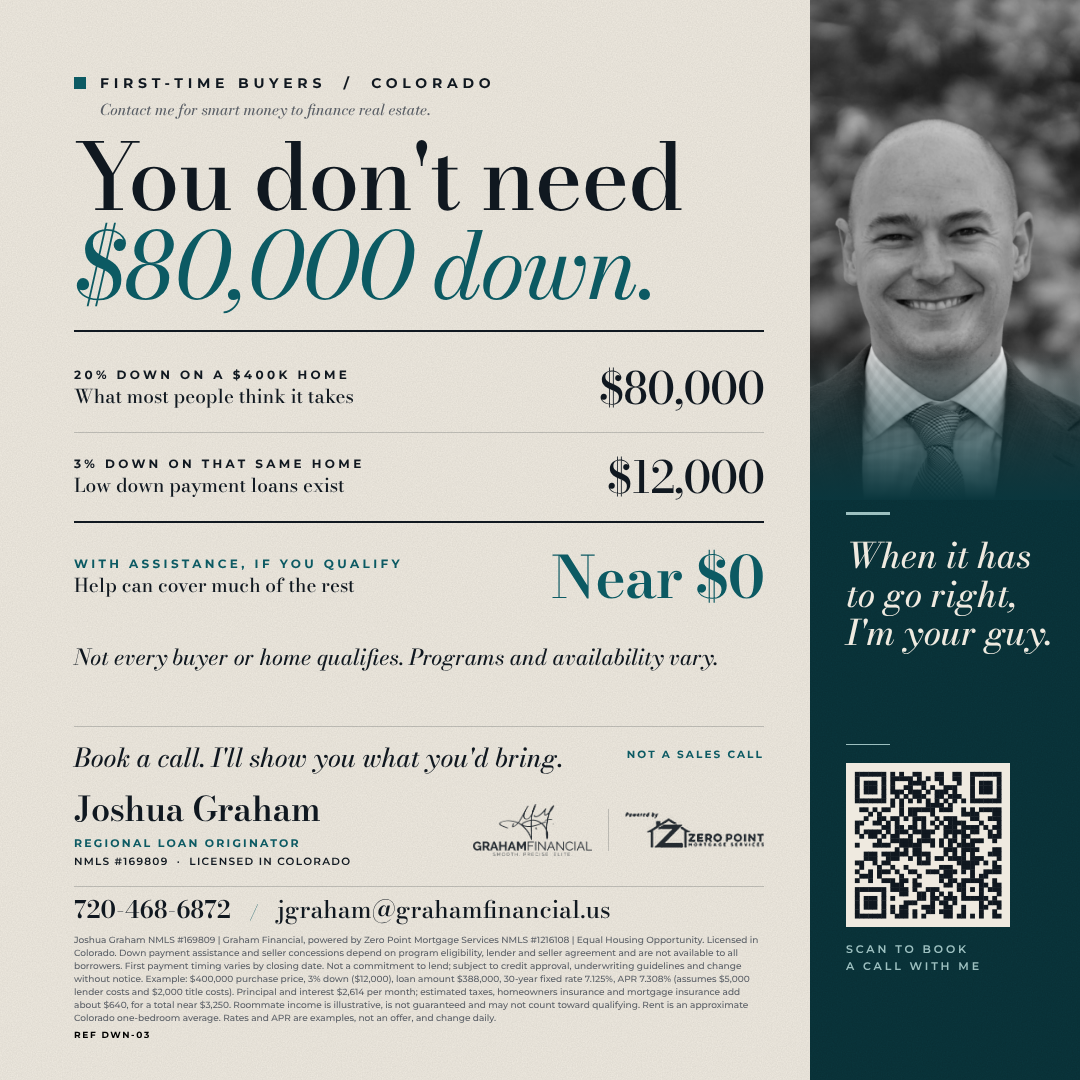
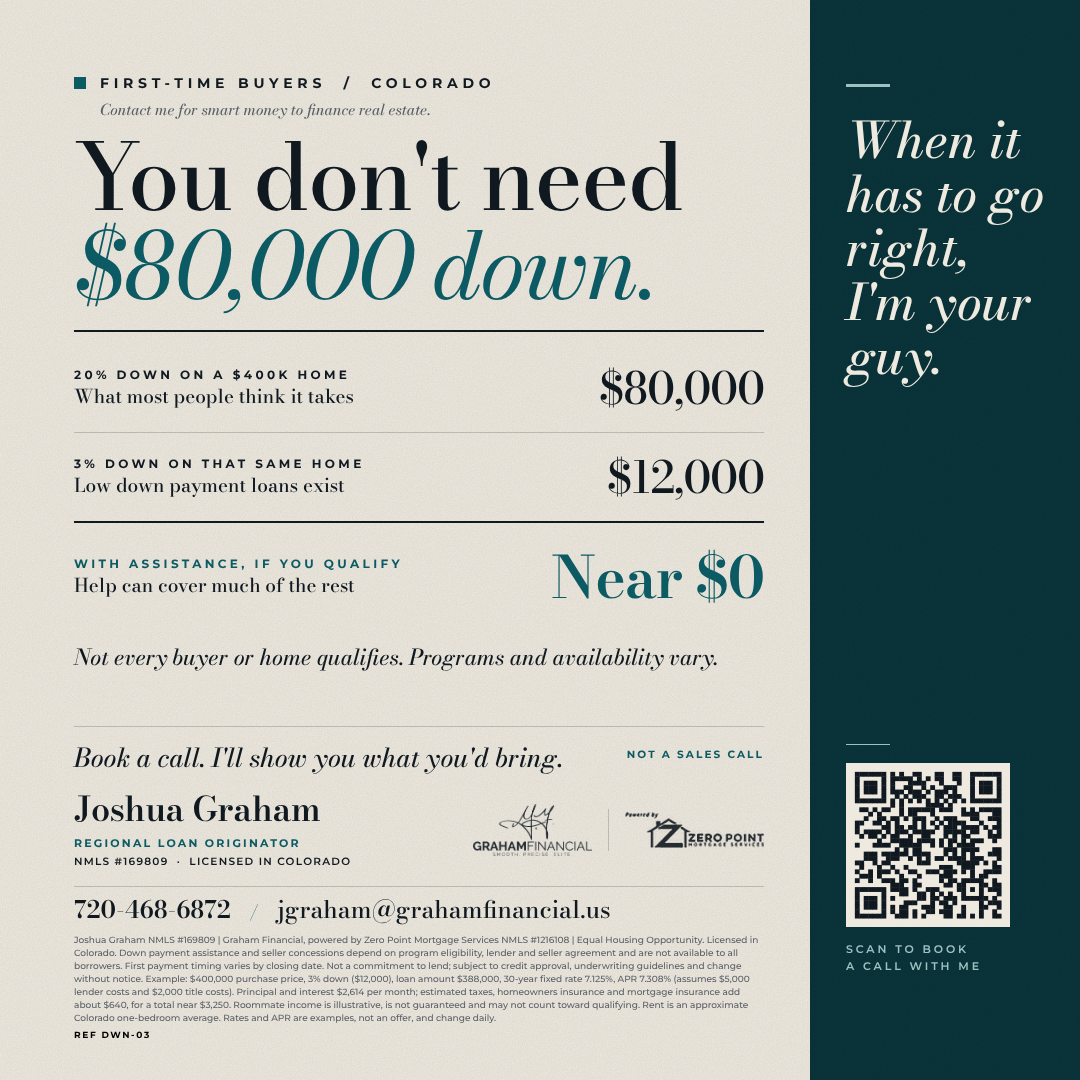
Flyers: photo toggle (PHOTO_ON), face on 4 of 14 Bond flyers, text-only panel for the rest
Claude-Session: https://claude.ai/code/session_01BCcskEaN45pwtrM4t2VKHx

Changed region(s): [[0.7333, 0.0, 1.0, 0.4583], [0.7639, 0.4889, 0.9778, 0.6111]]

diff --git a/tools/flyers/gen_elite.py b/tools/flyers/gen_elite.py
@@ -202,6 +202,14 @@ CARDS = {
         rpad=22, rule_top=330, cta="Book a call. It&#39;s how we start.", foot=FOOT_CONSUMER, foot_px=9.5),
 }
 
+# ---- Photo toggle: his face on about 1 in 4 Bond flyers. Add a ref to PHOTO_ON to put the photo on it.
+BOND_REFS = ["PAY-01","PAY-02","PAY-03","PAY-04","DWN-01","DWN-02","DWN-03","WLT-01","WLT-02","WLT-03","EQT-01","EQT-02","EQT-03","CRD-01"]
+PHOTO_ON = {"CRD-01", "PAY-01", "DWN-02", "EQT-02"}
+for _ref in BOND_REFS:
+    if _ref not in PHOTO_ON:
+        _c = CARDS[_ref]; _c.pop("photo", None); _c.pop("photo_line", None)
+        _c["panel_line"] = "When it<br>has to go<br>right,<br>I&#39;m your<br>guy."; _c["panel_px"] = 50
+
 def qr_svg(url, px, dark, light):
     import segno
     m = segno.make(url, error="m").matrix
